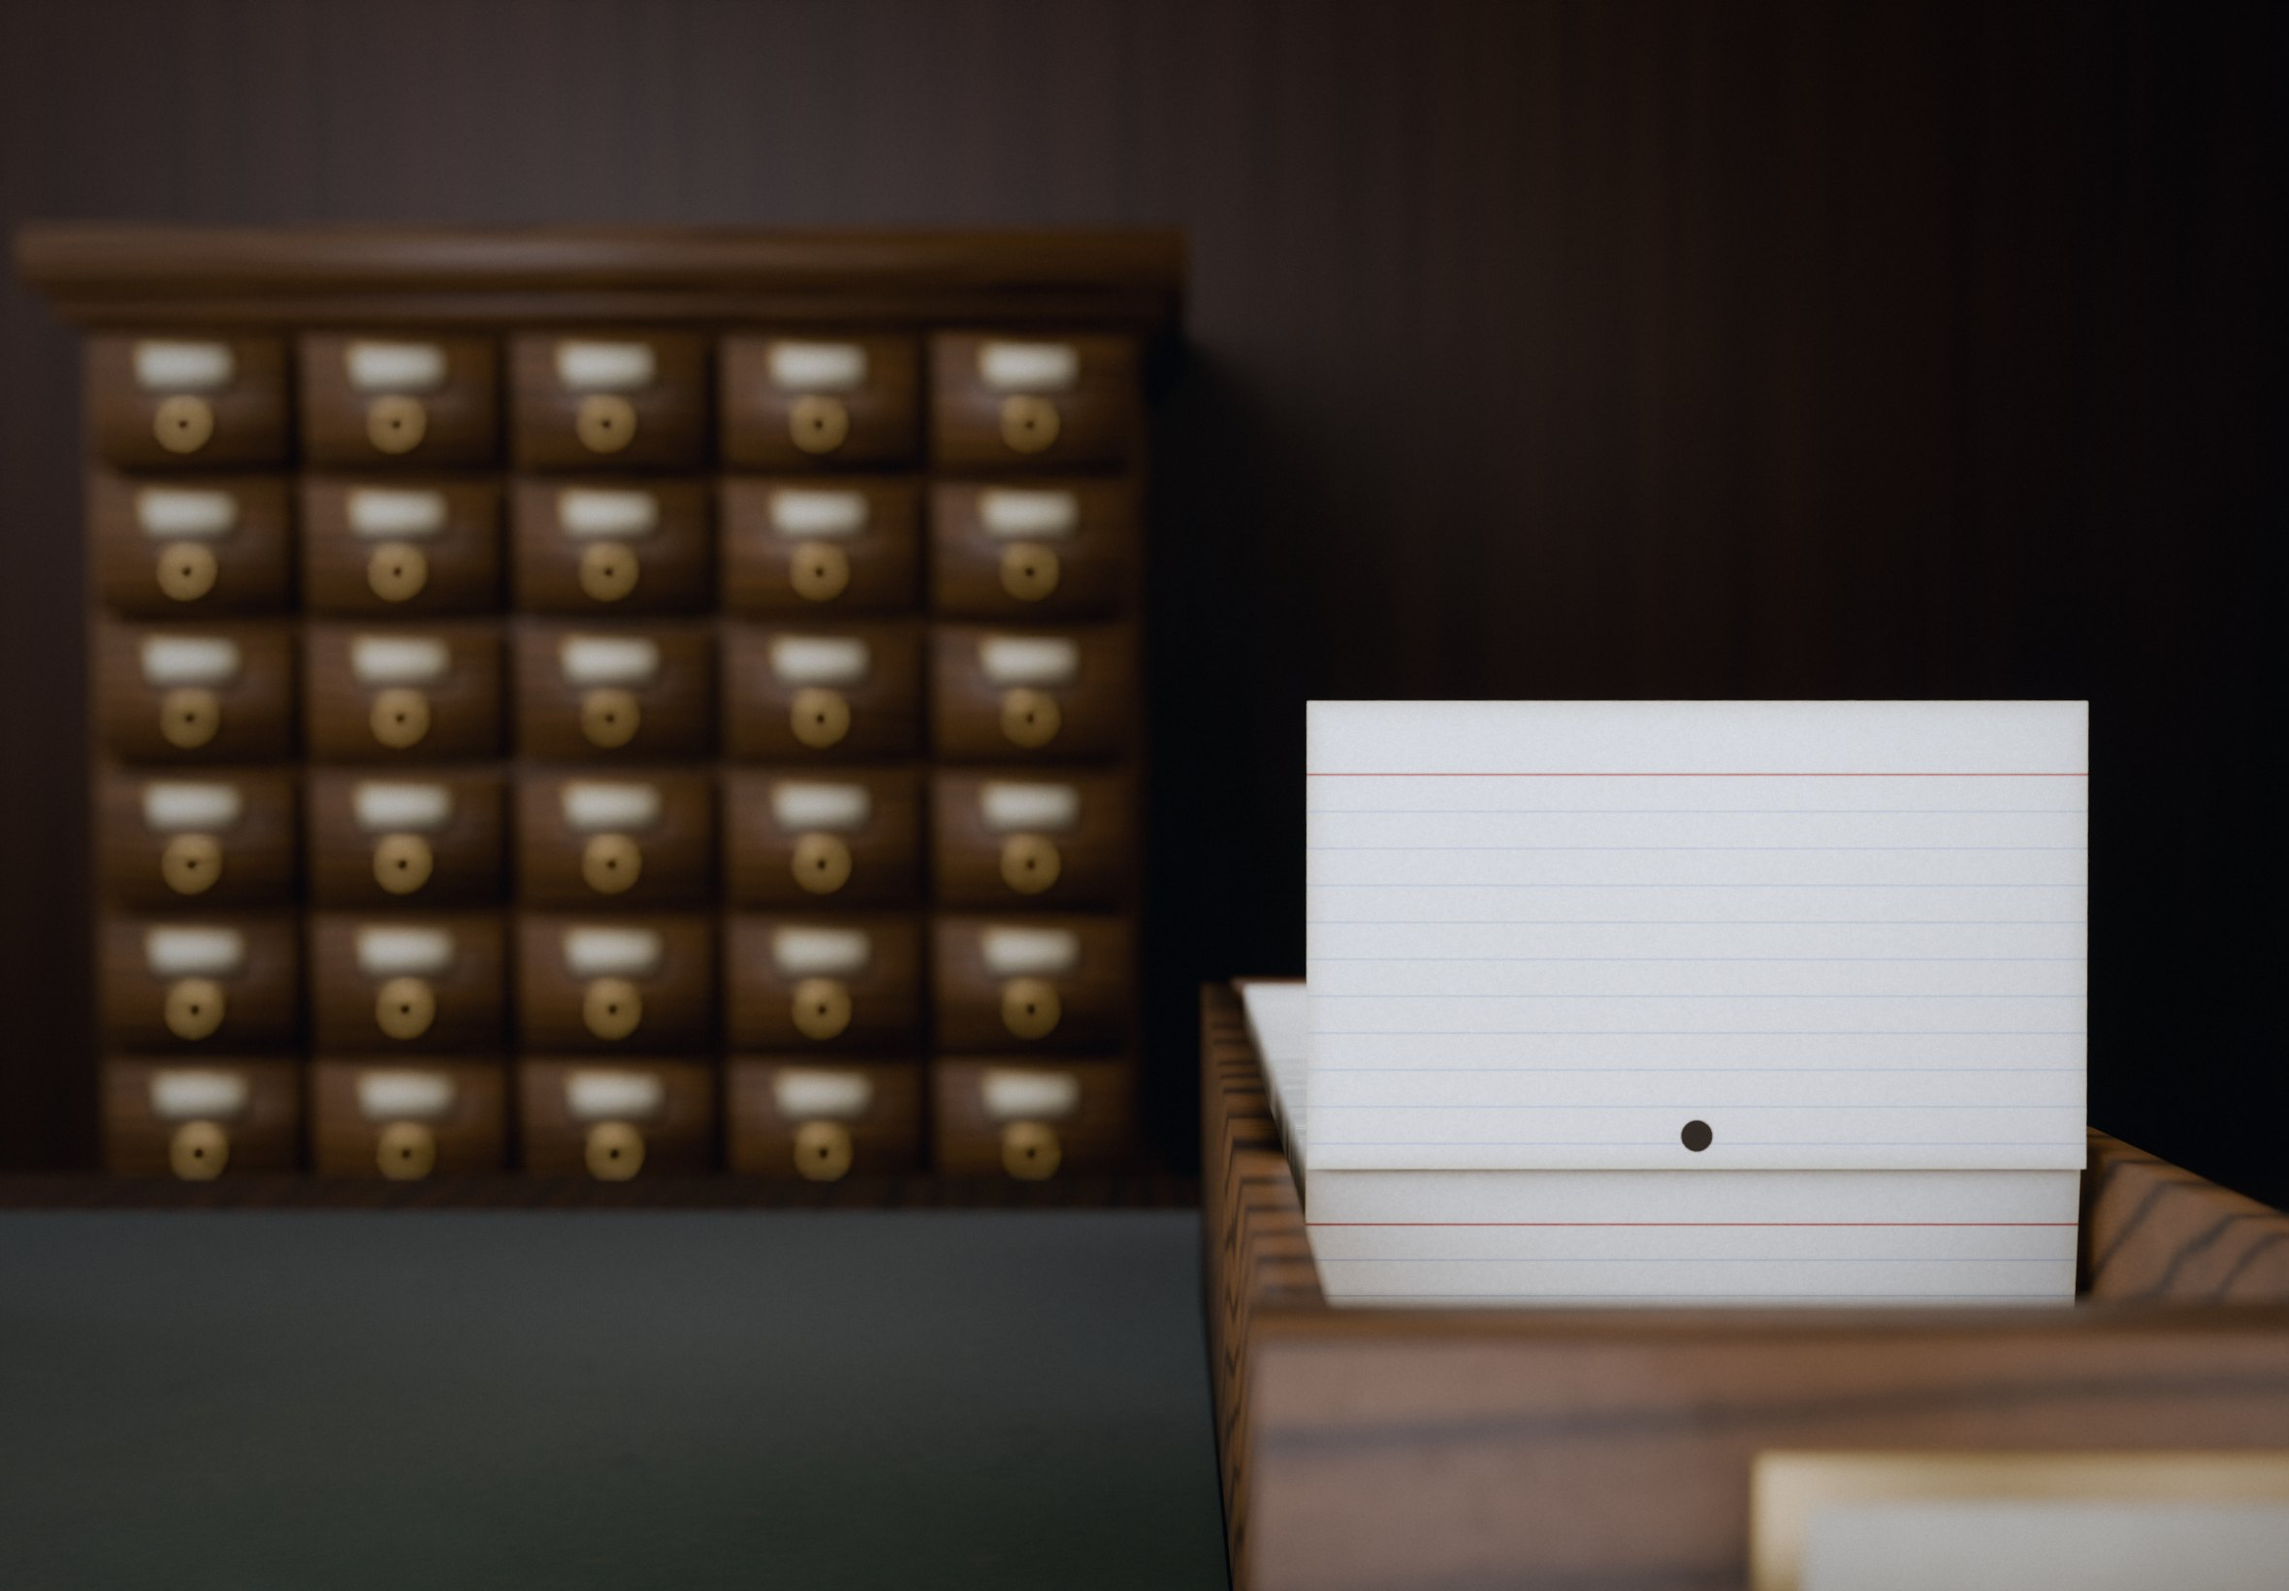
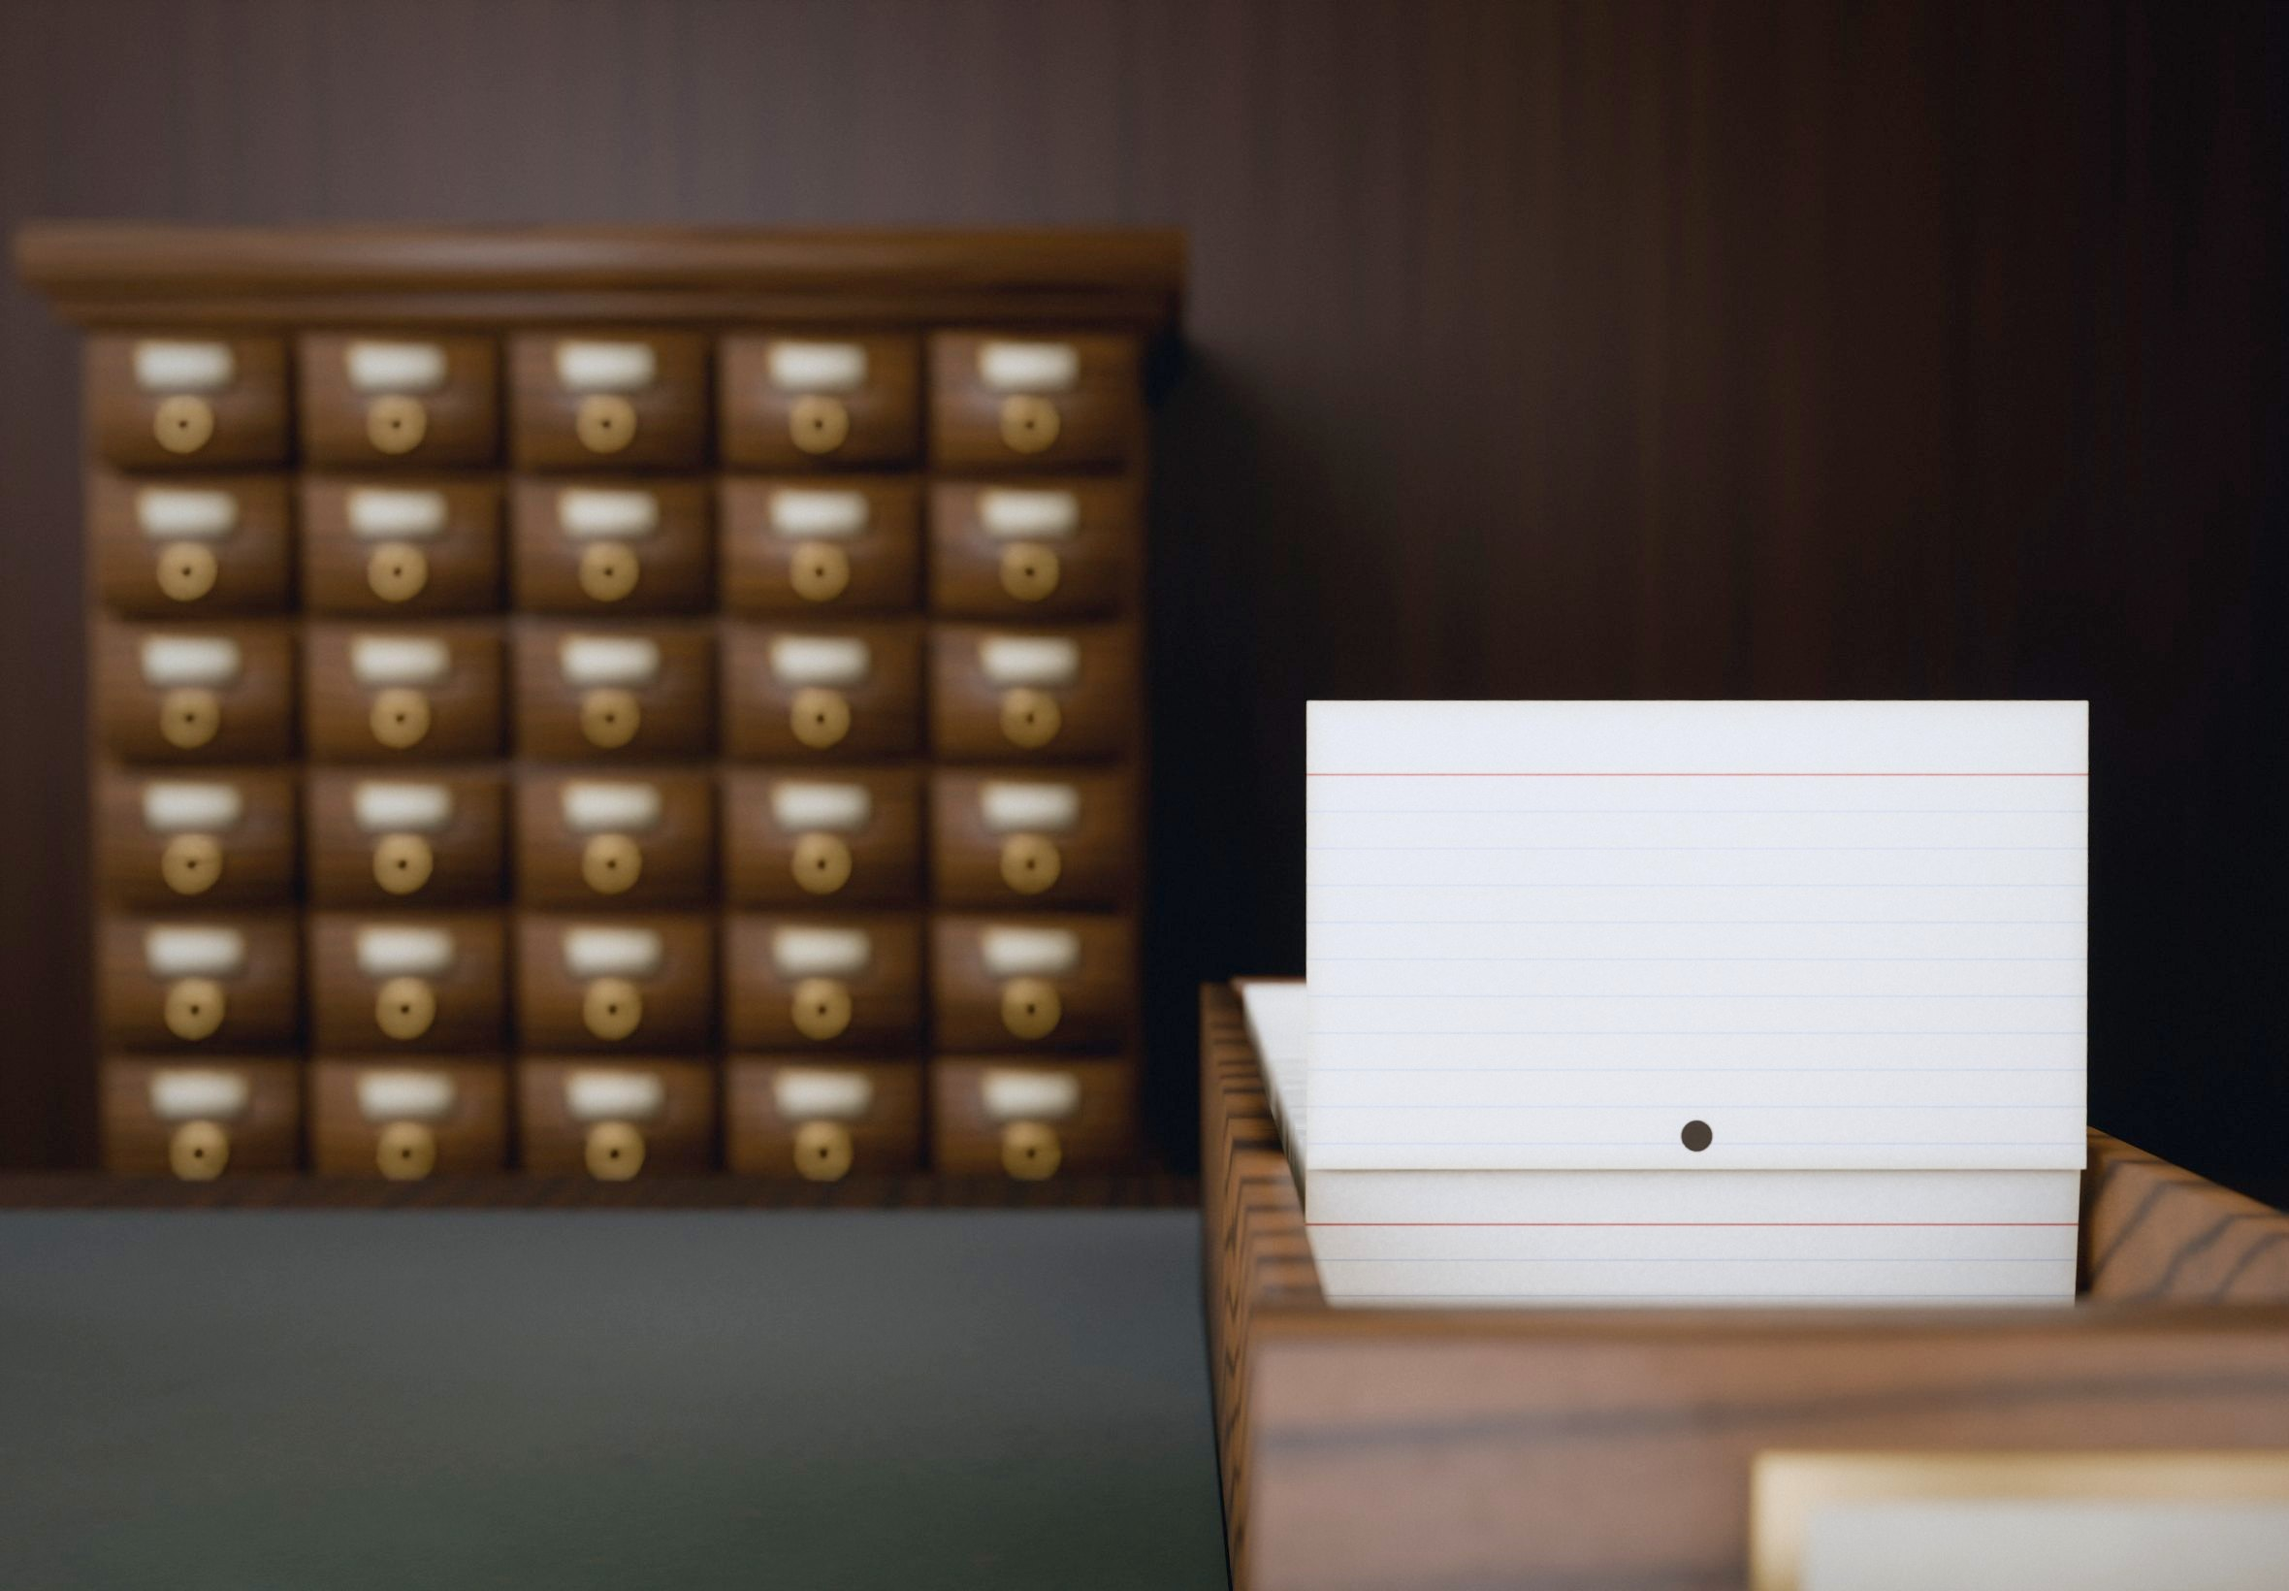
Lighter overall; twice as many quick-pick feelings
Claude-Session: https://claude.ai/code/session_018ysREwRpW9ctLPjLXszpf9

diff --git a/index.html b/index.html
@@ -19,9 +19,9 @@
 /* Layout: a fixed 1180×820 "room" stage scaled to the screen; the rendered room is the hero, UI recedes like museum labels. */
 :root{
   --surround:#070809;
-  --text:#ece3cf; --muted:#a59c88; --faint:#6f6858;
+  --text:#f3ecdc; --muted:#c2b8a2; --faint:#948b78;
   --gilt:#d4b97a; --gilt-deep:#9f7d3c; --line:rgba(212,185,122,.26);
-  --glass:rgba(14,16,15,.72); --glass-hi:rgba(28,30,28,.82);
+  --glass:rgba(48,40,32,.62); --glass-hi:rgba(66,56,44,.74);
   --ink:#2a1e14; --ink-muted:#6b5a42; --ink-red:#7a2a1f; --ink-line:rgba(70,50,30,.32);
   --f-ui:-apple-system,BlinkMacSystemFont,"SF Pro Text","Segoe UI","PingFang TC","Noto Sans TC","Microsoft JhengHei",sans-serif;
   --f-book:"EB Garamond","PingFang TC","Noto Sans TC",Georgia,serif;
@@ -73,8 +73,8 @@ button:focus-visible,a:focus-visible,input:focus-visible,textarea:focus-visible,
 .wall{position:absolute;inset:0;transform-origin:0 0;transition:transform .55s cubic-bezier(.2,.7,.2,1)}
 .plate{position:absolute;display:flex;align-items:center;justify-content:center;text-align:center;font:600 12px var(--f-display);letter-spacing:.12em;text-transform:uppercase;color:#2b1f0e;text-shadow:0 1px 0 rgba(255,236,190,.35),0 -1px 0 rgba(0,0,0,.35);white-space:nowrap;overflow:hidden;opacity:.92}
 .shelf{position:absolute;display:flex;align-items:flex-end;gap:1px;padding:0 4px;box-sizing:border-box}
-.shelf .genre-tag{z-index:6}.shelf::after{content:"";position:absolute;left:0;right:0;top:0;bottom:0;pointer-events:none;background:linear-gradient(180deg,rgba(0,0,0,.62) 0,rgba(0,0,0,.18) 30%,rgba(0,0,0,0) 55%,rgba(0,0,0,.14) 100%);z-index:3}
-.shelf .genre-tag{position:absolute;left:8px;bottom:-12px;font-size:10px;letter-spacing:.06em;color:rgba(212,185,122,.55);z-index:4;pointer-events:none}
+.shelf .genre-tag{z-index:6}.shelf::after{content:"";position:absolute;left:0;right:0;top:0;bottom:0;pointer-events:none;background:linear-gradient(180deg,rgba(0,0,0,.42) 0,rgba(0,0,0,.1) 30%,rgba(0,0,0,0) 55%,rgba(0,0,0,.08) 100%);z-index:3}
+.shelf .genre-tag{position:absolute;left:8px;bottom:-12px;font-size:10.5px;letter-spacing:.04em;color:rgba(240,222,180,.85);text-shadow:0 1px 2px rgba(0,0,0,.8);z-index:4;pointer-events:none}
 .spine{position:relative;flex-shrink:0;padding:0;border:0;cursor:pointer;background-repeat:no-repeat;border-radius:2px 2px 1px 1px;box-shadow:1px 0 1px rgba(0,0,0,.6),-1px 0 1px rgba(0,0,0,.35);transform-origin:50% 100%;transition:transform .35s cubic-bezier(.2,.7,.2,1),filter .3s,box-shadow .3s;z-index:1}
 .spine.lean{transform-origin:100% 100%}
 .spine .t{position:absolute;left:0;right:0;display:flex;align-items:center;justify-content:center;overflow:hidden;color:#d3b878;text-shadow:0 -.5px 0 rgba(0,0,0,.7),0 .5px 0 rgba(255,236,190,.18);pointer-events:none;line-height:1;white-space:nowrap}
@@ -142,13 +142,13 @@ button:focus-visible,a:focus-visible,input:focus-visible,textarea:focus-visible,
 .sheet h2{margin:0;font:600 28px var(--f-display);color:var(--gilt)}
 .sheet .lede{margin:4px 0 0;font:16px/1.45 var(--f-book);color:var(--muted)}
 .sheet label.f{display:flex;flex-direction:column;gap:5px;font-size:12px;color:var(--muted)}
-.sheet input[type=text],.sheet input[type=search],.sheet input[type=number],.sheet input[type=month],.sheet select,.sheet textarea{box-sizing:border-box;width:100%;min-height:42px;padding:9px 12px;border-radius:8px;border:1px solid var(--line);background:rgba(0,0,0,.28);color:var(--text);font:15px var(--f-ui);outline:none}
+.sheet input[type=text],.sheet input[type=search],.sheet input[type=number],.sheet input[type=month],.sheet select,.sheet textarea{box-sizing:border-box;width:100%;min-height:42px;padding:9px 12px;border-radius:8px;border:1px solid var(--line);background:rgba(0,0,0,.18);color:var(--text);font:15px var(--f-ui);outline:none}
 .sheet textarea{font:16px/1.5 var(--f-book);resize:vertical}
 .sheet .row{display:flex;gap:10px;align-items:center}
 .seg{display:inline-flex;padding:3px;border-radius:22px;border:1px solid var(--line);background:rgba(0,0,0,.25)}
 .seg button{min-height:36px;padding:0 14px;white-space:nowrap;border:0;border-radius:18px;background:none;color:var(--muted);font-size:14px;cursor:pointer}
 .seg button.on{background:rgba(212,185,122,.18);color:var(--text)}
-.pick{display:inline-flex;align-items:center;min-height:34px;padding:0 13px;border-radius:17px;border:1px solid var(--line);background:rgba(0,0,0,.2);color:var(--text);font:15px var(--f-book);cursor:pointer}
+.pick{display:inline-flex;align-items:center;min-height:32px;padding:0 12px;border-radius:16px;border:1px solid var(--line);background:rgba(255,240,210,.06);color:var(--text);font:14.5px var(--f-book);cursor:pointer}
 .pick.on{background:rgba(212,185,122,.22);border-color:rgba(212,185,122,.75);color:#fff6df}
 .cand{display:flex;gap:12px;align-items:flex-start;width:100%;padding:10px 12px;border-radius:10px;border:1px solid var(--line);background:rgba(0,0,0,.2);text-align:left;cursor:pointer;color:var(--text)}
 .cand.on{border-color:var(--gilt);background:rgba(212,185,122,.1)}
@@ -188,10 +188,10 @@ const PAGES = { L: { x: 95, y: 114.3, w: 495, h: 642 }, R: { x: 590, y: 114.3, w
 const GENRES = ['Fiction', 'Fantasy & Childhood', 'Chinese Literature', 'Poetry & Drama', 'History', 'Biography & Memoir', 'Philosophy & Religion', 'Essays & Criticism', 'Society & Ideas', 'Science & Nature', 'Art & Design', 'Travel & Food'];
 const GCODE = { 'Fiction': 'FIC', 'Fantasy & Childhood': 'FAN', 'Chinese Literature': 'CHI', 'Poetry & Drama': 'POE', 'History': 'HIS', 'Biography & Memoir': 'BIO', 'Philosophy & Religion': 'PHI', 'Essays & Criticism': 'ESS', 'Society & Ideas': 'SOC', 'Science & Nature': 'SCI', 'Art & Design': 'ART', 'Travel & Food': 'TRV' };
 const FEELINGS = [
-  ['The writing', ['Beautifully written', 'Lyrical', 'Witty', 'Spare & precise', 'Hard going']],
-  ['The ideas', ['Insightful', 'Thought-provoking', 'Eye-opening', 'Profound']],
-  ['How it felt', ['Moving', 'Haunting', 'Gripping', 'Comforting', 'Funny', 'Melancholy']],
-  ['Verdict', ['Life-changing', 'Will re-read', 'Overrated', 'Did not finish']]
+  ['The writing', ['Beautifully written', 'Lyrical', 'Witty', 'Spare & precise', 'Hard going', 'Atmospheric', 'Elegant', 'Vivid', 'Understated', 'Slow burn']],
+  ['The ideas', ['Insightful', 'Thought-provoking', 'Eye-opening', 'Profound', 'Wise', 'Original', 'Challenging', 'Timely']],
+  ['How it felt', ['Moving', 'Haunting', 'Gripping', 'Comforting', 'Funny', 'Melancholy', 'Heartbreaking', 'Tender', 'Nostalgic', 'Uplifting', 'Unsettling', 'Quietly devastating']],
+  ['Verdict', ['Life-changing', 'Will re-read', 'Overrated', 'Did not finish', 'A favourite', 'Underrated', 'Worth the hype', 'Must recommend']]
 ];
 const COLORS = SPR.colors;          // binding colours, same order as the sprite atlas columns
 const STYLES = SPR.styles;          // antique | smooth | label
